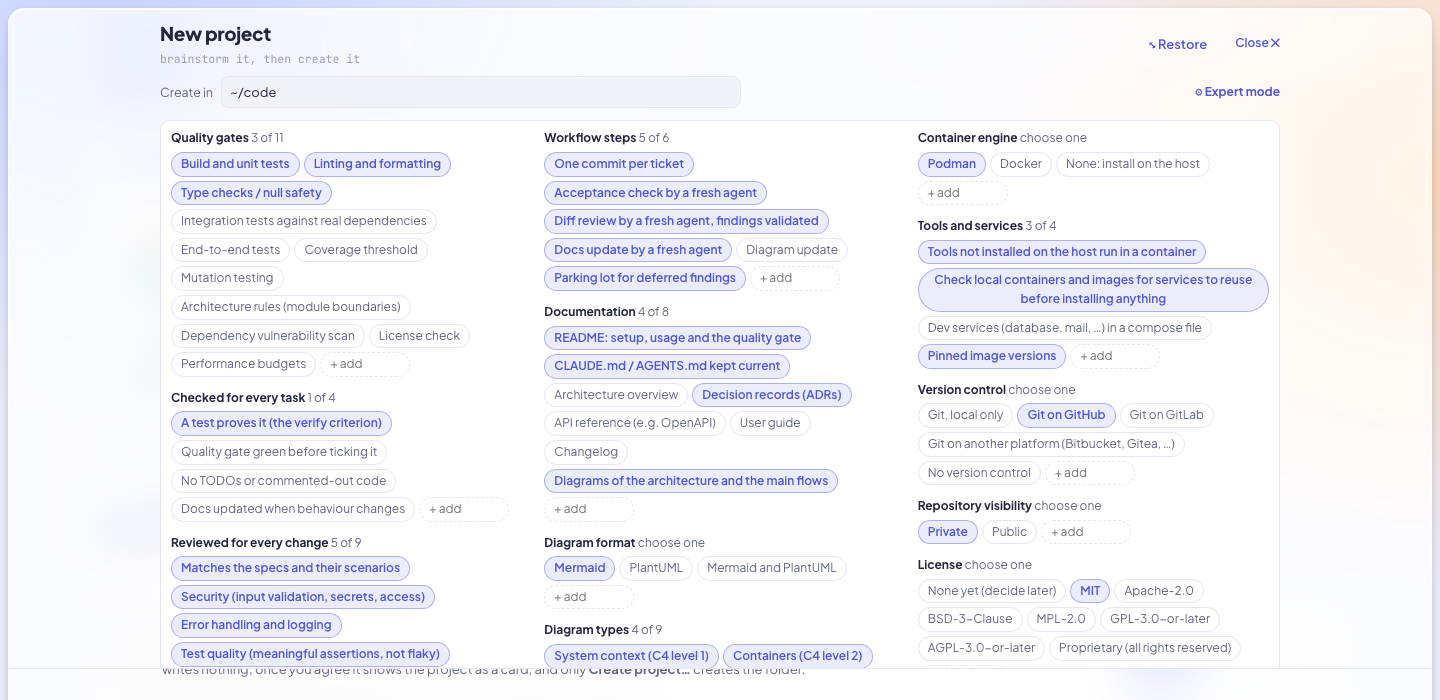
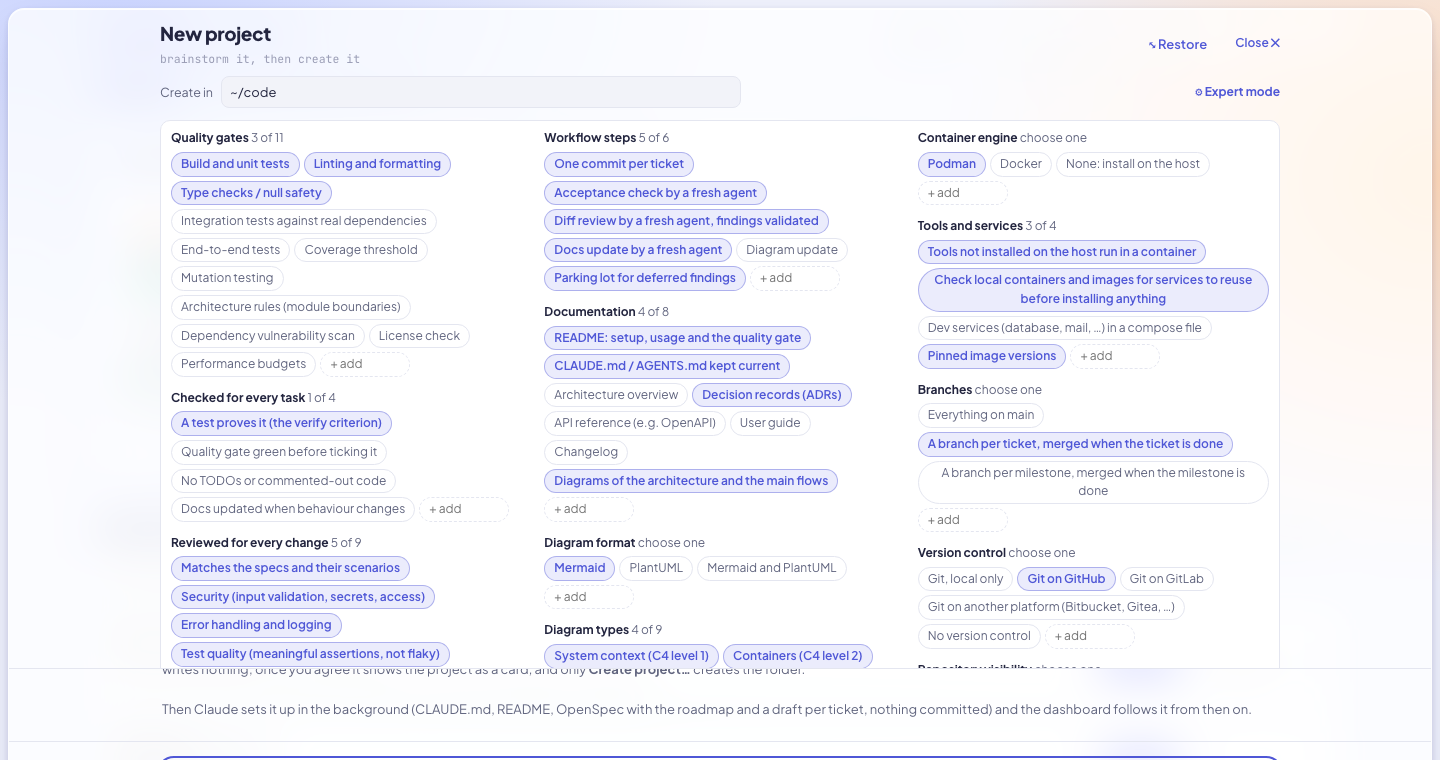
Dashboard: 🌿 accept on a new branch; branch strategy in expert mode; terminal colors and text size in write mode
- 🌿 accepts a proposal but has it done on a new git branch (unmerged), in the chat and in joined sessions
- expert mode: branches (everything on main, a branch per ticket or per milestone, merged when it is done);
  the setup writes it into the ticket workflow and CLAUDE.md
- write mode of a joined session: ▣ Terminal (terminal colors, own messages highlighted) and A− / A+
  (text size), remembered in the browser

diff --git a/tools/openspec-dashboard/index.html b/tools/openspec-dashboard/index.html
@@ -1408,6 +1408,24 @@ body.board-max { overflow: hidden; }
 .xp-g.xp-off .xp-chip { pointer-events: none; }
 .np-repo { flex-wrap: wrap; margin-bottom: 6px; }
 .term-compact { flex-wrap: nowrap; align-items: center; gap: 10px; }
+.term-vs { display: inline-flex; gap: 8px; align-items: center; }
+.term-v[aria-pressed="true"] { font-weight: 600; text-decoration: underline; }
+/* write mode in a joined session: the text size, and optionally terminal colors (your messages stay easy to spot) */
+.agent-panel.term-writing #ag-thread .msg, .agent-panel.term-writing #ag-thread .msg .md { font-size: var(--term-fs, 13.5px); }
+.agent-panel.term-writing #ag-thread details.steps { font-size: calc(var(--term-fs, 13.5px) - 1.5px); }
+.agent-panel.term-look #ag-thread { background: #0d1117; color: #d6dde6; font-family: ui-monospace, "SF Mono", Menlo, Consolas, monospace; }
+.agent-panel.term-look #ag-thread .msg.them { background: transparent; color: #d6dde6; border-radius: 0; padding-left: 10px; border-left: 2px solid #3a4250; max-width: 100%; }
+.agent-panel.term-look #ag-thread .msg.them code { background: #1f2630; color: #f0c674; }
+.agent-panel.term-look #ag-thread .msg.me { background: #1d4ed8; color: #fff; box-shadow: 0 0 0 1px #60a5fa; font-family: inherit; }
+.agent-panel.term-look #ag-thread .msg.me .rx-quote { color: #dbeafe; border-color: #93c5fd; }
+.agent-panel.term-look #ag-thread .msg.me.rx-sent { background: #1e3a8a; color: #fff; }
+.agent-panel.term-look #ag-thread .msg.me *, .agent-panel.term-look #ag-thread .msg.me .rx-on { color: inherit; }
+.agent-panel.term-look #ag-thread pre { background: #161b22; color: #d6dde6; border: 1px solid #30363d; }
+.agent-panel.term-look #ag-thread pre code { background: transparent; color: inherit; }
+.agent-panel.term-look #ag-thread .ic-chip { background: #0b3a8f; color: #dbeafe; }
+.agent-panel.term-look #ag-thread details.steps, .agent-panel.term-look #ag-thread details.steps summary { color: #8b949e; }
+.agent-panel.term-look #ag-thread .term-done, .agent-panel.term-look #ag-thread .msg.typing { background: #161b22; color: #8b949e; border-color: #30363d; }
+.agent-panel.term-look #ag-thread .rx { filter: none; }
 .term-compact .link, .term-compact .btn { white-space: nowrap; flex-shrink: 0; }
 .term-compact .ag-note { min-width: 0; overflow: hidden; text-overflow: ellipsis; white-space: nowrap; }
 .term-done { align-self: center; font-size: 12.5px; color: var(--muted); padding: 4px 12px; border: 1px solid var(--line); border-radius: 999px; background: var(--surface); margin: 4px 0 2px; }
@@ -3179,6 +3197,23 @@ async function agentPost(action, body) {
 }
 const recentExternal = () => (ag.view?.sessions ?? []).filter((x) => !x.ended && !x.dashboardJob && Date.now() - x.t < 15 * 60e3);
 // ---- joining a session that runs in a terminal (or an IDE): pick it, see its transcript live (read-only), write to it
+// how a joined session looks while writing to it: terminal colors and the text size (remembered in this browser)
+const termView = (() => { try { return { look: false, fs: 13.5, ...JSON.parse(localStorage.getItem('osd-term-view') || '{}') }; } catch { return { look: false, fs: 13.5 }; } })();
+const termViewSave = () => { try { localStorage.setItem('osd-term-view', JSON.stringify(termView)); } catch {} };
+function termViewApply(on) {
+  const a = $('agent');
+  a.classList.toggle('term-writing', !!on);
+  a.classList.toggle('term-look', !!on && termView.look);
+  a.style.setProperty('--term-fs', `${termView.fs}px`);
+}
+document.addEventListener('click', (e) => {
+  const lk = e.target.closest?.('[data-term-look]'), fs = e.target.closest?.('[data-term-fs]');
+  if (!lk && !fs) return;
+  e.stopPropagation();
+  if (lk) termView.look = !termView.look;
+  else termView.fs = Math.min(22, Math.max(10.5, termView.fs + Number(fs.dataset.termFs)));
+  termViewSave(); renderAgentLive();
+}, true);
 const typedHere = new Set(); // messages typed into a session's terminal from this page (marked in its transcript)
 const termLog = new Map(); // session id -> { entries, next (byte offset), cut, err }
 const termSessions = () => (ag.view?.sessions ?? []).filter((x) => !x.dashboardJob && x.transcript).sort((a, b) => (a.ended - b.ended) || b.t - a.t); // running first, ended ones stay readable
@@ -3357,7 +3392,8 @@ const columnLabel = (c) => COLS.find(([k]) => k === columnOf(c))?.[1] ?? STATUS[
 // ---- reactions and quotes: a quick answer to one of Claude's messages. Claude sees no timestamps of the dashboard,
 // so the reference is the message's first sentence (or the selected part), which Claude finds in its own context.
 // Only positive reactions; each one sends a short sentence with the reference.
-const REACTIONS = [['👍', 'I agree with this.'], ['✅', 'Yes, go ahead with this.'], ['🙏', 'Thanks, that helps.'], ['🎉', 'Great, that is exactly right.'], ['💡', 'Good idea, let us keep that.']];
+const REACTIONS = [['👍', 'I agree with this.'], ['✅', 'Yes, go ahead with this.'],
+  ['🌿', 'Yes, go ahead with this, but on a new git branch: create one named after it, switch to it and do the work there; do not merge it, I decide that later.'], ['🙏', 'Thanks, that helps.'], ['🎉', 'Great, that is exactly right.'], ['💡', 'Good idea, let us keep that.']];
 // requests about an answer: sent the same way, but asking Claude to do something with it
 const REQUESTS = [['🔁', 'Please say this again in other words, simpler and clearer.', 'Rephrase'], ['📝', 'Please summarize this in three to five short bullet points.', 'Summarize'],
   ['📊', 'Please turn this into an overview table (Markdown): one row per item or point, with the columns that fit the content, and nothing important left out.', 'Table']];
@@ -3644,12 +3680,13 @@ function barHtml(c) {
       ${ag.view?.hooks ? `<div class="ag-note">The hook is set up, but this session started before it: restart it to write to it (<code>/exit</code>, then <code>claude --resume ${esc(x.sessionId)}</code>).</div>` : setup('To write to it, set up the hook')}`;
     const state = x2.listening ? '<span class="dot on"></span>Listening: waiting for your message' : x2.waiting ? '<span class="dot"></span>Waiting for input in the terminal' : '<span class="dot on"></span>Working';
     // writing: the details fold into one line, so the conversation gets the panel ("Details" brings them back)
+    const look = `<button class="link term-v" type="button" data-term-look aria-pressed="${!!termView.look}" title="Terminal colors for the conversation (your messages stay highlighted)">▣ Terminal</button><button class="link term-v" type="button" data-term-fs="-1" title="Smaller text" aria-label="Smaller text">A−</button><button class="link term-v" type="button" data-term-fs="1" title="Larger text" aria-label="Larger text">A+</button>`;
     if (ag.termWrite && !ag.termDetails) return `<div class="ag-row term-compact"><span class="ag-note">✎ Writing to <b>${esc(xo ? xo.display : x2.prompt ? `“${x2.prompt.replace(/\s+/g, ' ').slice(0, 40)}${x2.prompt.length > 40 ? '…' : ''}”` : x2.sessionId.slice(0, 8))}</b> · ${state}</span>
-        <button class="link" type="button" data-ag-term-details aria-expanded="false" style="margin-left:auto" title="Show the session picker and the details again">Details ▾</button>
+        <span class="term-vs" style="margin-left:auto">${look}</span><button class="link" type="button" data-ag-term-details aria-expanded="false" title="Show the session picker and the details again">Details ▾</button>
         <button class="btn" type="button" data-ag-term-write aria-pressed="true" title="Back to read-only">Read only</button></div>${termLog.get(x2.sessionId)?.err ? `<div class="ag-note warn">✕ ${esc(termLog.get(x2.sessionId).err)}</div>` : ''}`;
     return `${top}
       <div class="ag-row"><span class="ag-note">${state} · last step ${ago(x2.t)}${x2.tool && !x2.waiting ? ` (${esc(x2.tool)})` : ''}</span>
-        ${ag.termWrite ? '<button class="link" type="button" data-ag-term-details aria-expanded="true" style="margin-left:auto" title="Fold the details into one line">Fewer details ▴</button>' : ''}
+        ${ag.termWrite ? `<span class="term-vs" style="margin-left:auto">${look}</span><button class="link" type="button" data-ag-term-details aria-expanded="true" title="Fold the details into one line">Fewer details ▴</button>` : ''}
         <button class="btn" type="button" data-ag-term-write aria-pressed="${ag.termWrite}" ${ag.termWrite ? '' : 'style="margin-left:auto"'} title="${ag.termWrite ? 'Back to read-only' : 'Write to this session as if you typed it there'}">${ag.termWrite ? 'Read only' : '✎ Write to it'}</button>
         ${ag.termWrite && cur && !x2.hookless && !x2.typeable ? `<button class="btn" type="button" data-ag-term-listen aria-pressed="${!!x2.listen}" title="When it is about to stop, it waits for your message instead (the terminal shows the hook running; Esc there takes the session back)">${x2.listen ? '👂 Listening · stop' : '👂 Keep it listening'}</button>` : ''}</div>
       ${ag.termWrite && x2.typeable ? `<div class="ag-note">Your message is typed into its Terminal tab and sent with Return, exactly as if you typed it there, also while it waits for input (one line; not while it asks you something there).</div>`
@@ -3689,6 +3726,7 @@ function renderAgentLive() {
     if ($('ag-text')) $('ag-text').placeholder = chatPlaceholder(c, ui.state ? { project: ui.state.project } : { project: '' });
     $('ag-chips').innerHTML = list.map((x) => `<button type="button" class="chip" role="tab" data-ag-convo="${esc(x.id)}" aria-selected="${x.id === c?.id}">${x.live ? '<span class="dot on"></span>' : ''}${x.session ? 'Session · ' : ''}${esc(x.label)}</button>`).join('');
     morphHtml($('ag-bar'), barHtml(c)); // morph: an open session picker stays open
+    termViewApply(c?.terminal && ag.term && ag.termWrite);
     const tx = c?.terminal && ag.term ? termSessions().find((y) => y.sessionId === ag.term) ?? (ag.view?.elsewhere ?? []).find((y) => y.sessionId === ag.term && !y.projectId) : null;
     const ro = c?.terminal && (ag.term ? (!tx || !ag.termWrite || tx.ended || (tx.hookless && !tx.typeable)) : !ag.view?.hooks); // a joined session is read-only until "Write to it"; an ended one or one without the hook stays so
     for (const el of document.querySelectorAll('#agent .ag-compose, #agent #ag-suggest')) el.hidden = !!ro;
@@ -3699,6 +3737,7 @@ function renderAgentLive() {
     if (atEnd || ag.stick) { th.scrollTop = th.scrollHeight; ag.stick = false; }
     $('ag-route').innerHTML = c?.terminal ? (ag.note.startsWith('✕') ? `<span style="color:var(--st-blocked)">${esc(ag.note)}</span>` : '') : 'Enter sends · Shift+Enter for a new line';
   } else {
+    termViewApply(false);
     if (!$('ag-body')) return;
     $('ag-note').textContent = ag.note;
     $('ag-note').className = 'ag-note' + (ag.note.startsWith('✕') ? ' warn' : '');
@@ -4620,6 +4659,7 @@ function scoutMax(on) {
   if (b) { b.setAttribute('aria-pressed', String(on)); b.textContent = on ? '⤡ Restore' : '⤢ Maximize'; b.title = on ? 'Back to the side panel (Esc)' : 'Use the whole window'; }
 }
 function scoutPanel(placeholder, max = false, attach = false) {
+  termViewApply(false);
   $('agent').hidden = false;
   document.body.classList.add('ag-open');
   $('agent').innerHTML = `<div class="ag-head"><h2 id="sc-title"></h2><button class="link ag-maxbtn" type="button" data-sc-max></button><button class="link" type="button" data-sc-close>Close ✕</button></div>
@@ -4710,6 +4750,7 @@ const EXPERT = [
   ['diagramTypes', 'Diagram types', [['System context (C4 level 1)', 1], ['Containers (C4 level 2)', 1], ['Components (C4 level 3)', 0], ['Sequence diagrams of the main flows', 1], ['Data model (ER)', 1], ['State machines', 0], ['Activity / flow charts', 0], ['Deployment', 0], ['Class diagrams', 0]]],
   ['engine', 'Container engine', [['Podman', 1], ['Docker', 0], ['None: install on the host', 0]], ONE],
   ['services', 'Tools and services', [['Tools not installed on the host run in a container', 1], [XP_CHECK, 1], ['Dev services (database, mail, …) in a compose file', 0], ['Pinned image versions', 1]]],
+  ['branches', 'Branches', [['Everything on main', 1], ['A branch per ticket, merged when the ticket is done', 0], ['A branch per milestone, merged when the milestone is done', 0]], ONE],
   ['git', 'Version control', [['Git, local only', 1], ['Git on GitHub', 0], ['Git on GitLab', 0], ['Git on another platform (Bitbucket, Gitea, …)', 0], ['No version control', 0]], ONE],
   ['visibility', 'Repository visibility', [['Private', 1], ['Public', 0]], ONE],
   ['license', 'License', [['None yet (decide later)', 1], ['MIT', 0], ['Apache-2.0', 0], ['BSD-3-Clause', 0], ['MPL-2.0', 0], ['GPL-3.0-or-later', 0], ['AGPL-3.0-or-later', 0], ['Proprietary (all rights reserved)', 0]], ONE],

diff --git a/tools/openspec-dashboard/README.md b/tools/openspec-dashboard/README.md
@@ -92,7 +92,8 @@ other platforms it shows what to run.
 
 **⚙ Expert mode** in that panel sets the workflow the project starts with: quality gates, what every task is
 checked for, what every change is reviewed for, the workflow steps, the documentation to keep, the diagram format
-(Mermaid, PlantUML or both; one choice) and the diagram types to draw (C4 context and containers, sequence, ER,
+(Mermaid, PlantUML or both; one choice), the branches (everything on main, a branch per ticket or per milestone,
+merged when it is done; one choice) and the diagram types to draw (C4 context and containers, sequence, ER,
 state, deployment, …), the container engine (Podman, Docker or none; one choice), how tools
 and services are run, version control (git local only, on GitHub, GitLab or another platform, or none; one choice),
 the repository's visibility (private or public; only with a platform) and the license (none yet, MIT, Apache-2.0,
@@ -264,7 +265,8 @@ Started with `--agent`, the dashboard talks to Claude Code in two places:
     waiting, listening, ended), polled with the transcript every 2 s from Claude Code's own idle/busy. In write mode
     the bar folds into one line (**Details ▾** unfolds it), and Claude's answers get the reactions, requests and
     quotes of the chat; a quote typed into a terminal is one line, so the dashboard reads `[Replying to …] text`
-    with a space as well as with a line break. The drop-down lists the project's sessions of the last 12 hours: the ones the
+    with a space as well as with a line break. **▣ Terminal** (terminal colors, own messages highlighted) and
+    **A− / A+** (text size) only apply in write mode and are kept in `localStorage` (`osd-term-view`). The drop-down lists the project's sessions of the last 12 hours: the ones the
     hook below reports, and also those it has not seen (no hook, or started before it), found in Claude Code's own
     records: `~/.claude/sessions/<pid>.json` (session id, folder, idle or busy; the process must still run) for the
     running ones and the interactive transcripts in `~/.claude/projects/<folder>/` for the ended ones (`claude -p`
@@ -282,8 +284,8 @@ Started with `--agent`, the dashboard talks to Claude Code in two places:
     message when it is done instead of stopping. **Any session** sends to the next session that takes a step.
   - **⤢ Maximize** gives the chat the whole window (`Esc` restores it, a second `Esc` closes it).
   - **Reactions and quotes**: each of Claude's answers has a faint ⋯; hovering the answer (or tapping ⋯) shows a
-    row where 👍 ✅ 🙏 🎉 💡 send a short answer at once ("I agree
-    with this.", "Yes, go ahead with this.", …), 🔁 asks Claude to say it again in simpler words, 📝 to summarize
+    row where 👍 ✅ 🌿 🙏 🎉 💡 send a short answer at once ("I agree
+    with this.", "Yes, go ahead with this.", …; 🌿 accepts but on a new git branch, unmerged), 🔁 asks Claude to say it again in simpler words, 📝 to summarize
     it in a few bullet points and 📊 to turn it into an overview table, and **↩ Quote** replies to that answer (select a part of it first
     to quote just that part). Claude sees no timestamps of the dashboard, so the reference it gets is the answer's
     first sentence, or the selected part, in a fixed form (`[Reaction 👍 to your message: "…"]`,

diff --git a/docs/user-guide.md b/docs/user-guide.md
@@ -212,8 +212,10 @@ lets you join a session running elsewhere (see below). Enter sends, Shift+Enter 
 **Quick replies.** Each of Claude's answers has a faint **⋯** next to its time. Move the mouse over the answer (or
 tap ⋯) and a row of buttons appears:
 
-- 👍 ✅ 🙏 🎉 💡 react at once, each with a short sentence ("I agree with this.", "Yes, go ahead with this.",
-  "Thanks, that helps.", "Great, that is exactly right.", "Good idea, let us keep that."); only positive ones;
+- 👍 ✅ 🌿 🙏 🎉 💡 react at once, each with a short sentence ("I agree with this.", "Yes, go ahead with this.",
+  "Thanks, that helps.", "Great, that is exactly right.", "Good idea, let us keep that."); only positive ones. 🌿
+  accepts a proposal but has it done on a new git branch: Claude creates one named after it, works there and leaves
+  merging to you;
 - 🔁 asks for the answer again in simpler words, 📝 for a summary in a few bullet points, 📊 for an overview table;
 - ↩ quotes the answer in your next message; select a part of it first to quote just that part.
 
@@ -249,8 +251,10 @@ or **Session ended**.
 While you write to a session, the details above the conversation fold into one line (**✎ Writing to …**, its state,
 **Details ▾**, **Read only**), so the conversation gets the panel; **Details ▾** shows the session picker and the
 notes again, **Fewer details ▴** folds them. Claude's answers there have the same quick replies as the chat
-(👍 ✅ 🙏 🎉 💡, 🔁 📝 📊 and ↩ to quote, also a selected part); they are typed into the session like any message,
-and the thread shows them as reactions and quotes.
+(👍 ✅ 🌿 🙏 🎉 💡, 🔁 📝 📊 and ↩ to quote, also a selected part); they are typed into the session like any message,
+and the thread shows them as reactions and quotes. Also only while writing: **▣ Terminal** shows the conversation in
+terminal colors (dark, monospaced; your own messages keep a bright blue background, so they stand out), and **A−** /
+**A+** change its text size; both are remembered in the browser.
 
 Following a session works without any setup: the dashboard finds the running sessions in Claude Code's own records
 (`~/.claude/sessions`) and reads their transcripts.
@@ -403,6 +407,8 @@ defaults; **+ add** takes your own entries:
   API compatibility, migrations;
 - **Workflow steps**: one commit per ticket, acceptance check, diff review with validated findings, docs and
   diagram updates, parking lot;
+- **Branches** (choose one): everything on main (the default), a branch per ticket that is merged when the ticket is
+  done, or a branch per milestone that is merged when the milestone is done;
 - **Documentation**: e.g. a README with setup and usage, CLAUDE.md / AGENTS.md kept current, an architecture
   overview, decision records (ADRs), an API reference, a user guide, a changelog, diagrams of the architecture and
   the main flows;

diff --git a/README.md b/README.md
@@ -198,7 +198,8 @@ What makes it more than a status page:
 - **Edit the specs from a conversation.** Every tab of a change (tasks, proposal, design, spec deltas, validation)
   has its own question box with that context. When the conversation finds something to change, Claude proposes
   the updated file; you see a diff and accept or reject it.
-- **Quick replies in the chat.** React to an answer with one click (👍 ✅ 🙏 🎉 💡), ask for it again in simpler
+- **Quick replies in the chat.** React to an answer with one click (👍 ✅ 🙏 🎉 💡; 🌿 accepts a proposal but on a
+  new branch), ask for it again in simpler
   words (🔁), as a summary (📝) or as a table (📊), or quote it (↩, also just a selected part). Claude gets a short
   reference to the answer, so it knows what you mean without the answer being sent again; the chat stays quiet
   with just a faint ⋯ until you hover an answer.
@@ -210,7 +211,8 @@ What makes it more than a status page:
   in the background (nothing committed). Or **start a new project**: brainstorm it with Claude, and once you agree
   it is created with its roadmap and followed from then on; an **expert mode** sets its quality gates, task checks,
   review topics, workflow steps, documentation, diagram format (Mermaid by default) and types, container engine,
-  version control (local, GitHub, GitLab, …, public or private) and license up front, takes attached files (a spec,
+  branches (main, per ticket or per milestone), version control (local, GitHub, GitLab, …, public or private) and
+  license up front, takes attached files (a spec,
   notes, a PDF) as part of the idea,
   and lets Claude check your local containers for a service to reuse (e.g. a running Postgres) before anything is
   installed on the host. Projects you are done with can be **archived** or **unfollowed**, so they cost nothing
